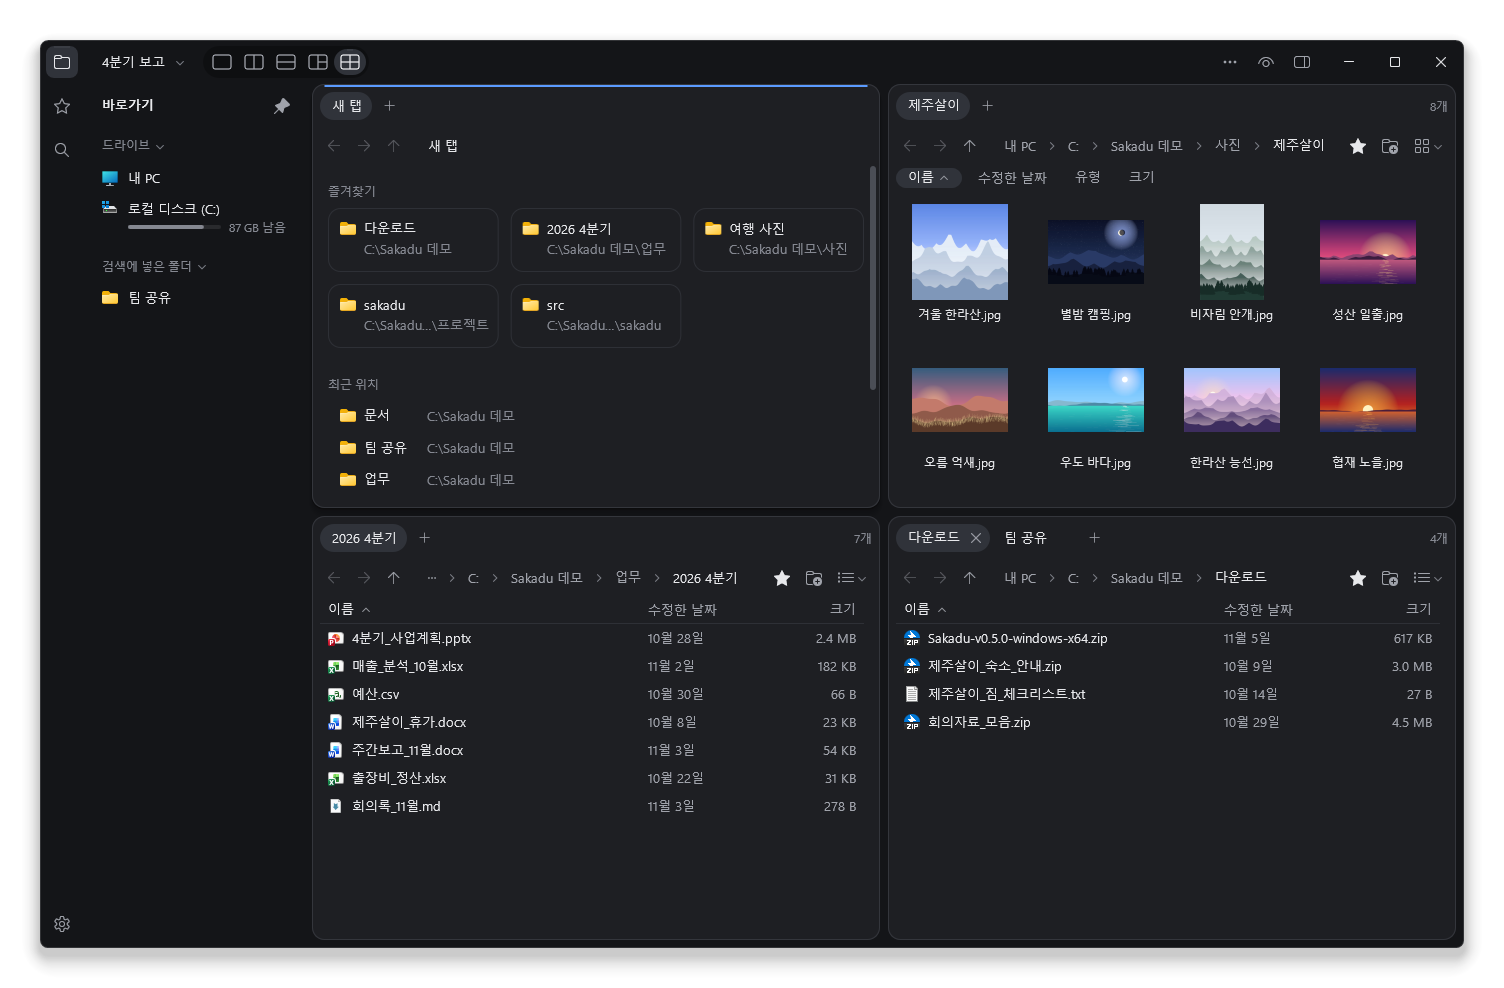
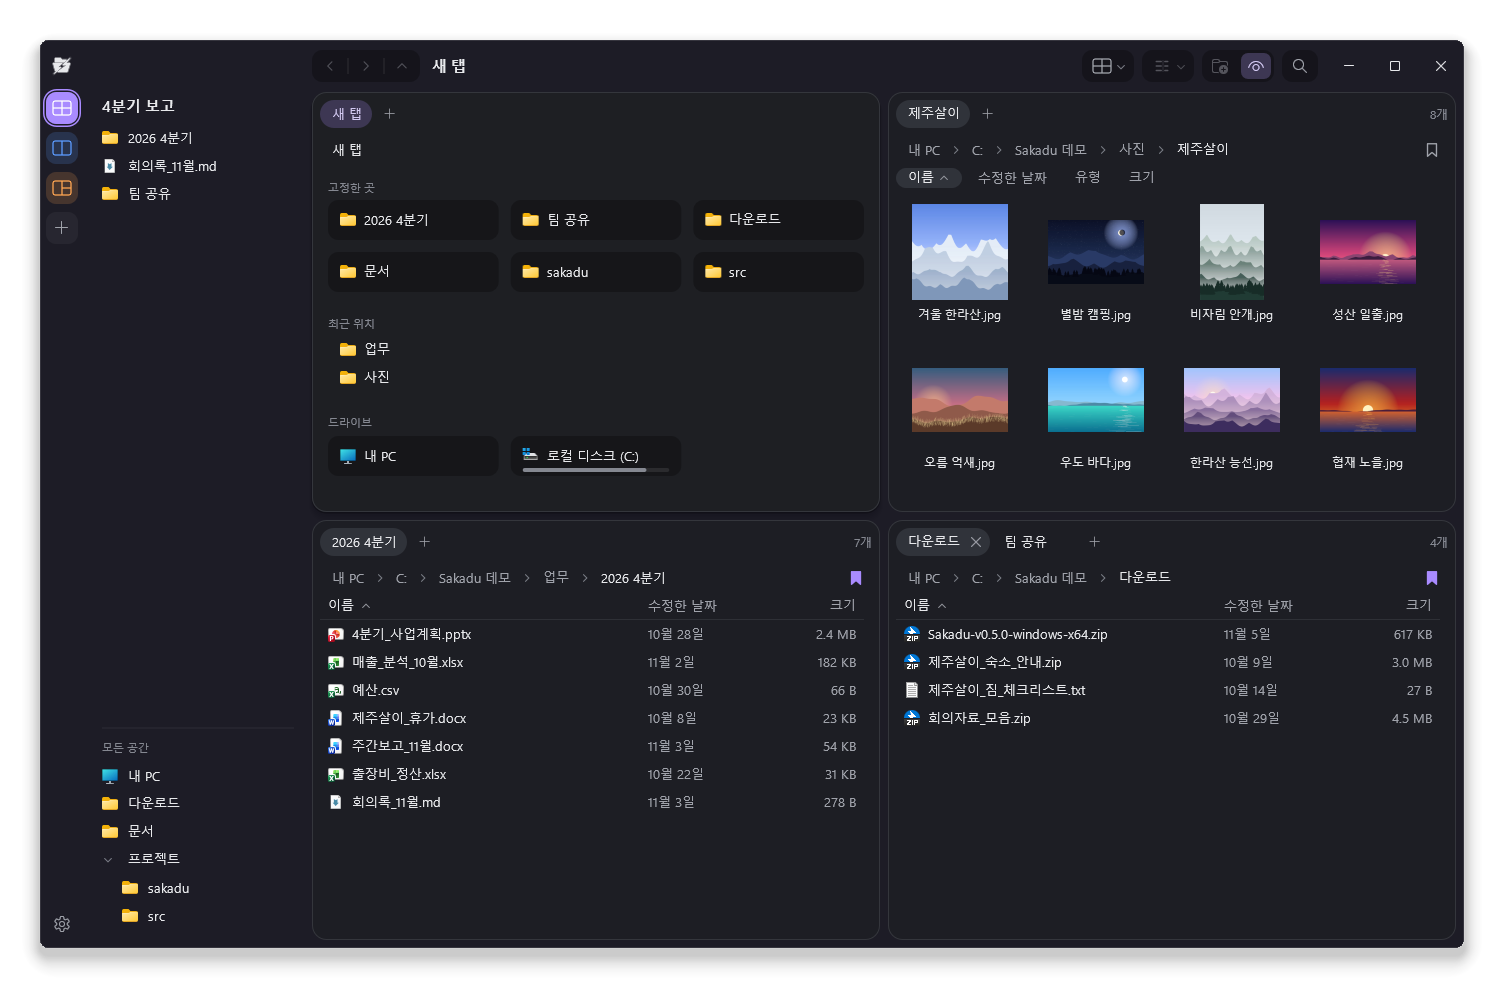
0.8.0: 버전을 올리고 README 스크린샷과 소개를 새 화면에 맞춘다

diff --git a/README.en.md b/README.en.md
@@ -4,7 +4,7 @@
 
 A Windows file manager that keeps several folders open side by side and finds any file on your disk as you type its name.
 
-![Two panes with the favorites panel, thumbnails and the preview pane](docs/screenshot-main.png)
+![The workspace rail, two panes, thumbnails and the preview card for the selected photo](docs/screenshot-main.png)
 
 **[Download the latest release](https://github.com/noddish/sakadu/releases/latest)** · Windows 11 · a single exe, no installer · free and open source
 
@@ -12,16 +12,16 @@ A Windows file manager that keeps several folders open side by side and finds an
 
 ## Features
 
-- **Instant search**: press Ctrl+F, type a few letters, and results from the whole disk show up right away (10–20 ms over 1.8 million entries). Results stay in the left panel with their dates and sizes. Add a shared folder or USB drive and it's searched too.
+- **Instant search**: press Ctrl+F, type a few letters, and results from the whole disk show up right away (10–20 ms over 1.8 million entries). Results stay in the left panel so you can open them one by one. Add a shared folder or USB drive and it's searched too.
 - **Several folders in one window**: split into 2, 3 or 4 panes, each with its own tabs. Drag a tab to move it to another pane.
-- **Ctrl+K command menu**: jump to an open tab, favorite or recent location, or find and run a command by name (Korean initial consonants work too).
+- **Ctrl+K command menu**: jump to an open tab, pinned place or recent location, or find and run a command by name (Korean initial consonants work too).
 - **Works like Explorer**: right-click menus, the copy progress dialog and drag and drop behave as they do in Explorer. Moved something by mistake? Use the **되돌리기** (undo) button on the notice, or Ctrl+Z.
-- **Look before you open**: thumbnails and a preview pane show photos, PDFs and text. Pin a reference file in the preview to keep it in view.
-- **Workspaces**: keep panes, tabs, the search query and the preview as named workspaces and switch between them. A new tab opens on your favorites and recent locations.
+- **Look before you open**: select a picture or text file and a preview card appears at the bottom of the neighbouring pane. PDFs and Office documents open in the preview pane (Alt+P), where you can pin a reference file to keep it in view.
+- **Workspaces**: switch workspaces from the rail on the left. Each one remembers its own layout (panes and tabs), pinned places and color. A new tab opens on your pinned places and recent locations.
 - **NAS**: shares that need a sign-in open through the Windows sign-in dialog, and a dropped connection shows the last list you saw.
 - **Light**: no runtime or web view; it's Rust drawing with Direct2D. Dark mode follows your Windows setting.
 
-![Search results kept in the search panel and a photo pinned in the preview](docs/screenshot-search.png)
+![The search field grown out of the toolbar, the results panel and the preview card for a text file](docs/screenshot-search.png)
 
 ![Dark theme with four panes and the new tab start page](docs/screenshot-dark.png)
 
@@ -29,9 +29,9 @@ A Windows file manager that keeps several folders open side by side and finds an
 
 1. Grab `Sakadu-<version>-windows-x64.zip` from [Releases](https://github.com/noddish/sakadu/releases/latest) and unzip it.
 2. Run `sakadu.exe`. If Windows shows "Windows protected your PC", click **More info → Run anyway** (the exe isn't code-signed yet).
-3. For whole-disk search, press **검색 서비스 설치** (install search service) in the search panel (Ctrl+F) once and approve the admin prompt.
+3. For whole-disk search, open search (Ctrl+F), press **검색 서비스 설치** (install search service) once and approve the admin prompt.
 
-In Settings (gear) you can use Sakadu as the default file manager, keep it in the tray so the search hotkey works after closing the window, and change the theme and shortcuts. Press F1 for usage tips.
+In Settings (the gear at the bottom left) you can use Sakadu as the default file manager, keep it in the tray so the search hotkey works after closing the window, and change the theme and shortcuts. Press F1 for usage tips.
 
 ## Keys you'll use most
 
@@ -44,7 +44,7 @@ In Settings (gear) you can use Sakadu as the default file manager, keep it in th
 | Tab / Shift+Tab | Next / previous pane |
 | Ctrl+T / Ctrl+W | New tab / close tab |
 | Alt+P | Preview pane |
-| Ctrl+B / Ctrl+D | Go to favorites / add to favorites |
+| Ctrl+B / Ctrl+D | Go to the sidebar list / pin to this workspace |
 | Ctrl+Z | Undo the last file operation |
 
 All other shortcuts are listed (and can be changed) in Settings → **단축키** (Shortcuts).

diff --git a/README.md b/README.md
@@ -4,22 +4,22 @@
 
 폴더 여러 개를 한 창에 띄워 놓고, 디스크 어디에 있는 파일이든 이름만 치면 바로 찾는 Windows 파일 관리자.
 
-![두 칸 화면과 즐겨찾기 패널, 썸네일, 미리 보기](docs/screenshot-main.png)
+![작업 공간 레일과 두 칸 화면, 썸네일, 고른 사진의 미리 보기 카드](docs/screenshot-main.png)
 
 **[최신 버전 받기](https://github.com/noddish/sakadu/releases/latest)** · Windows 11 · 설치 없이 exe 하나 · 무료 오픈소스
 
 ## 기능
 
-- **바로 찾기**: Ctrl+F를 누르고 몇 글자만 치면 디스크 전체에서 바로 나와요(180만 개에서 10~20ms). 결과는 왼쪽 패널에 남고 날짜·크기가 보여요. 공유폴더·USB도 넣어 두면 함께 찾아요.
+- **바로 찾기**: Ctrl+F를 누르고 몇 글자만 치면 디스크 전체에서 바로 나와요(180만 개에서 10~20ms). 결과는 왼쪽 패널에 남아서 하나씩 열어 볼 수 있어요. 공유폴더·USB도 넣어 두면 함께 찾아요.
 - **한 창에 여러 폴더**: 화면을 2·3·4칸으로 나누고 칸마다 탭을 열어요. 탭은 끌어서 다른 칸으로 옮겨요.
-- **Ctrl+K 명령 메뉴**: 열린 탭·즐겨찾기·최근 위치로 가고, 명령을 이름이나 초성으로 찾아 실행해요.
+- **Ctrl+K 명령 메뉴**: 열린 탭·고정한 곳·최근 위치로 가고, 명령을 이름이나 초성으로 찾아 실행해요.
 - **탐색기와 같은 동작**: 우클릭 메뉴, 복사 진행 창, 끌어서 놓기가 탐색기와 같아요. 잘못 옮기면 알림의 **되돌리기**나 Ctrl+Z.
-- **열지 않고 확인**: 썸네일과 미리 보기 창으로 사진·PDF·텍스트를 봐요. 참고할 파일은 미리 보기에 고정해 둬요.
-- **작업 공간**: 칸·탭·검색어·미리 보기를 이름 붙여 두고 바꿔 가며 써요. 새 탭에는 즐겨찾기와 최근 위치가 바로 보여요.
+- **열지 않고 확인**: 그림이나 글 파일을 고르면 미리 보기 카드가 옆 칸 아래에 저절로 떠요. PDF·Office 문서는 미리 보기 창(Alt+P)으로 보고, 참고할 파일은 거기에 고정해 둬요.
+- **작업 공간**: 왼쪽 레일에서 작업 공간을 바꿔요. 공간마다 화면(칸·탭)과 고정한 곳, 색을 따로 기억해요. 새 탭에는 고정한 곳과 최근 위치가 바로 보여요.
 - **NAS**: 로그인이 필요한 공유는 Windows 로그인 창으로 열고, 연결이 끊기면 마지막으로 본 목록을 보여 줘요.
 - **가벼움**: 런타임·웹뷰 없이 Rust와 Direct2D로 직접 그려요. 다크 모드는 Windows 설정을 따라가요.
 
-![검색 패널의 결과와 미리 보기에 고정한 사진](docs/screenshot-search.png)
+![도구 막대에서 늘어난 검색 입력 칸과 결과 패널, 글 파일의 미리 보기 카드](docs/screenshot-search.png)
 
 ![어두운 테마의 네 칸 화면과 새 탭 시작 화면](docs/screenshot-dark.png)
 
@@ -27,9 +27,9 @@
 
 1. [Releases](https://github.com/noddish/sakadu/releases/latest)에서 `Sakadu-버전-windows-x64.zip`을 받아 풀어요.
 2. `sakadu.exe`를 실행해요. "Windows의 PC 보호" 창이 뜨면 **추가 정보 → 실행**(아직 코드 서명이 없어요).
-3. 디스크 전체 검색은 검색 패널(Ctrl+F)에서 **검색 서비스 설치**를 한 번 누르면 켜져요(관리자 승인 한 번).
+3. 디스크 전체 검색은 검색(Ctrl+F)을 열면 보이는 **검색 서비스 설치**를 한 번 누르면 켜져요(관리자 승인 한 번).
 
-설정(톱니)에서 기본 파일 관리자로 쓰기, 트레이에서 대기(창을 닫아도 단축키로 검색), 테마·단축키를 바꿔요. 사용법은 F1.
+설정(왼쪽 아래 톱니)에서 기본 파일 관리자로 쓰기, 트레이에서 대기(창을 닫아도 단축키로 검색), 테마·단축키를 바꿔요. 사용법은 F1.
 
 ## 자주 쓰는 키
 
@@ -42,7 +42,7 @@
 | Tab / Shift+Tab | 다음 칸 / 이전 칸 |
 | Ctrl+T / Ctrl+W | 새 탭 / 탭 닫기 |
 | Alt+P | 미리 보기 창 |
-| Ctrl+B / Ctrl+D | 즐겨찾기로 이동 / 추가 |
+| Ctrl+B / Ctrl+D | 사이드바 목록으로 이동 / 이 공간에 고정 |
 | Ctrl+Z | 방금 한 파일 작업 되돌리기 |
 
 나머지 단축키는 설정 → **단축키**에서 보고 바꿔요.
